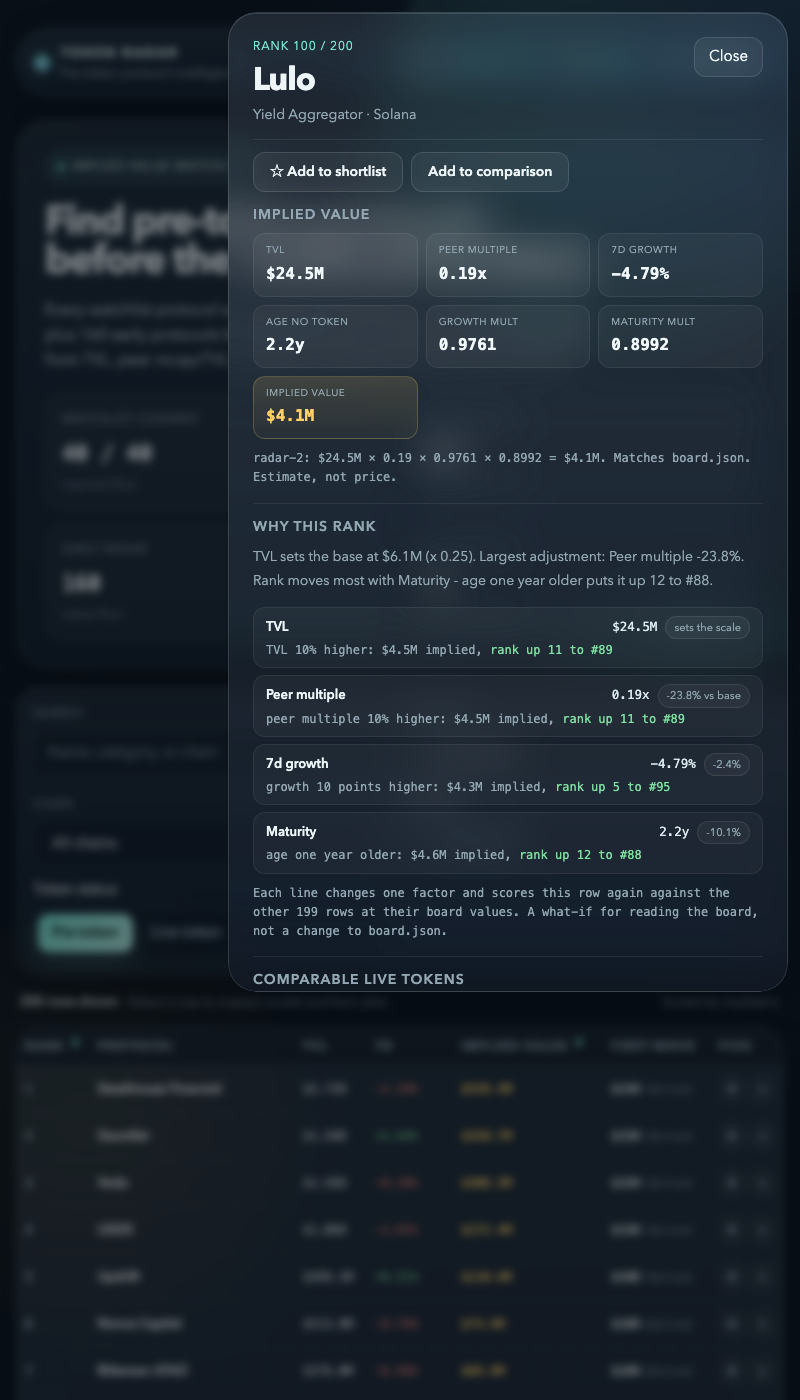
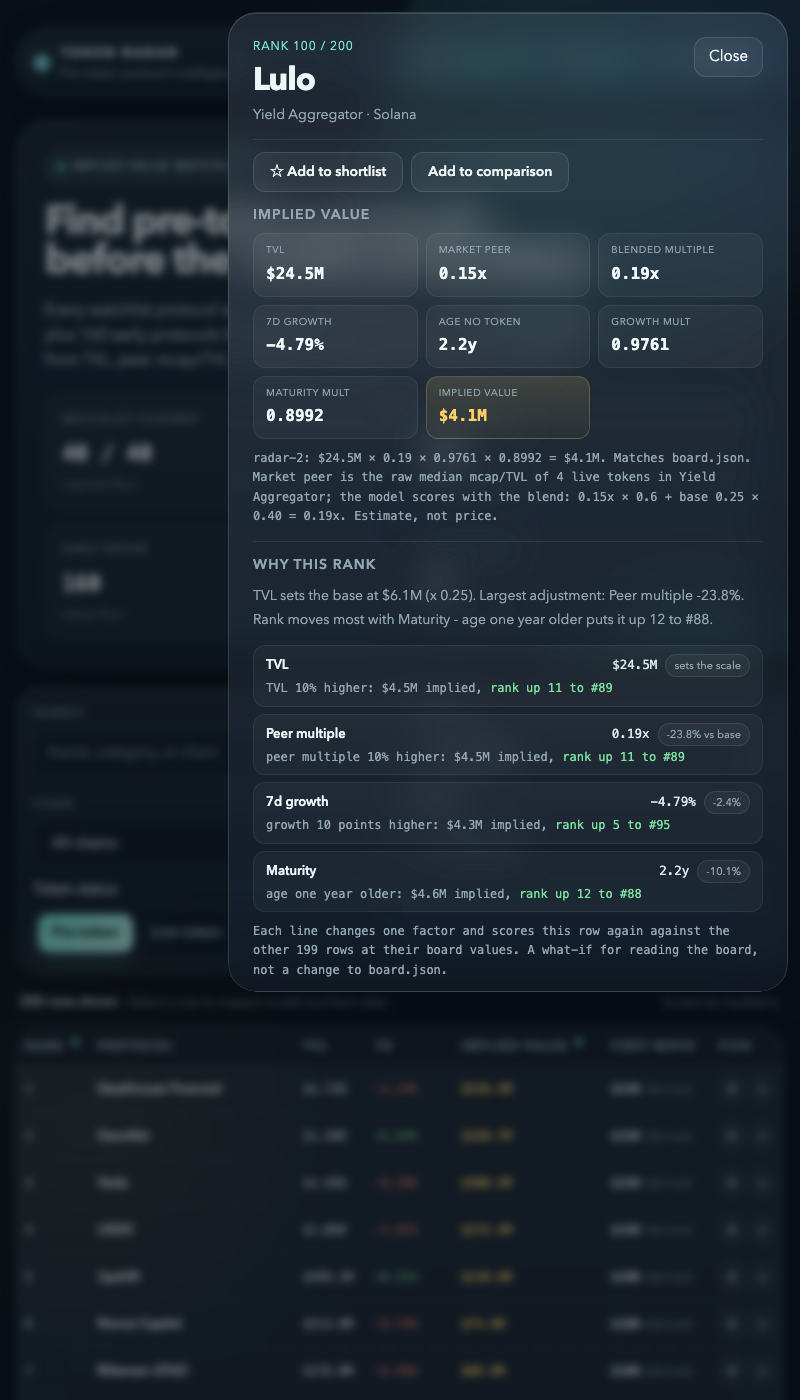
Show the market peer next to the blended multiple in the detail modal
The category table listed the unblended peer while the board and modal
showed the blended value, so the same row looked like two contradictory
numbers. The modal now pairs "Market peer" with "Blended multiple" and
the equation note spells out the 0.6/0.4 blend and where the raw number
comes from. board.json is unchanged.

diff --git a/dashboard/app.js b/dashboard/app.js
@@ -686,20 +686,23 @@
     } }, isCompared(row.slug) ? 'In comparison' : 'Add to comparison');
     shell.appendChild(el('div', { class: 'detail-actions' }, shortButton, compareButton));
 
-    var recomputed = impliedOf(row, DATA.model);
+    var m = DATA.model;
+    var peer = unblend(row.peer_multiple, m);
+    var recomputed = impliedOf(row, m);
     var checks = recomputed === row.implied_value_usd ? 'Matches board.json.' : 'Differs from board.json; data may be stale.';
     shell.appendChild(el('section', { class: 'section' },
       el('h3', { text: 'Implied value' }),
       el('div', { class: 'metrics' },
         metric('TVL', fmtUsd(row.tvl_usd)),
-        metric('Peer multiple', row.peer_multiple.toFixed(2) + 'x'),
+        metric('Market peer', peer.toFixed(2) + 'x'),
+        metric('Blended multiple', row.peer_multiple.toFixed(2) + 'x'),
         metric('7d growth', fmtPct(row.change_7d)),
         metric('Age no token', fmtAge(row.age_days)),
         metric('Growth mult', String(row.growth_multiplier)),
         metric('Maturity mult', String(row.maturity_multiplier)),
         metric('Implied value', fmtUsd(row.implied_value_usd), true)
       ),
-      el('p', { class: 'equation-note', text: DATA.model_version + ': ' + fmtUsd(row.tvl_usd) + ' × ' + row.peer_multiple.toFixed(2) + ' × ' + row.growth_multiplier + ' × ' + row.maturity_multiplier + ' = ' + fmtUsd(recomputed) + '. ' + checks + ' Estimate, not price.' })
+      el('p', { class: 'equation-note', text: DATA.model_version + ': ' + fmtUsd(row.tvl_usd) + ' × ' + row.peer_multiple.toFixed(2) + ' × ' + row.growth_multiplier + ' × ' + row.maturity_multiplier + ' = ' + fmtUsd(recomputed) + '. ' + checks + ' Market peer is the raw median mcap/TVL of ' + row.peer_samples + ' live tokens' + (row.peer_category ? ' in ' + row.peer_category : ' across the snapshot (market-wide fallback)') + '; the model scores with the blend: ' + peer.toFixed(2) + 'x × ' + m.peer_weight + ' + base ' + m.base_multiple + ' × ' + round4(1 - m.peer_weight).toFixed(2) + ' = ' + row.peer_multiple.toFixed(2) + 'x. Estimate, not price.' })
     ));
 
     shell.appendChild(whySection(row));

diff --git a/dashboard/index.html b/dashboard/index.html
@@ -16,6 +16,6 @@
 </div>
 <main id="board" tabindex="-1" aria-busy="true"></main>
 <script src="../data.js?v=4"></script>
-<script src="app.js?v=6"></script>
+<script src="app.js?v=7"></script>
 </body>
 </html>
